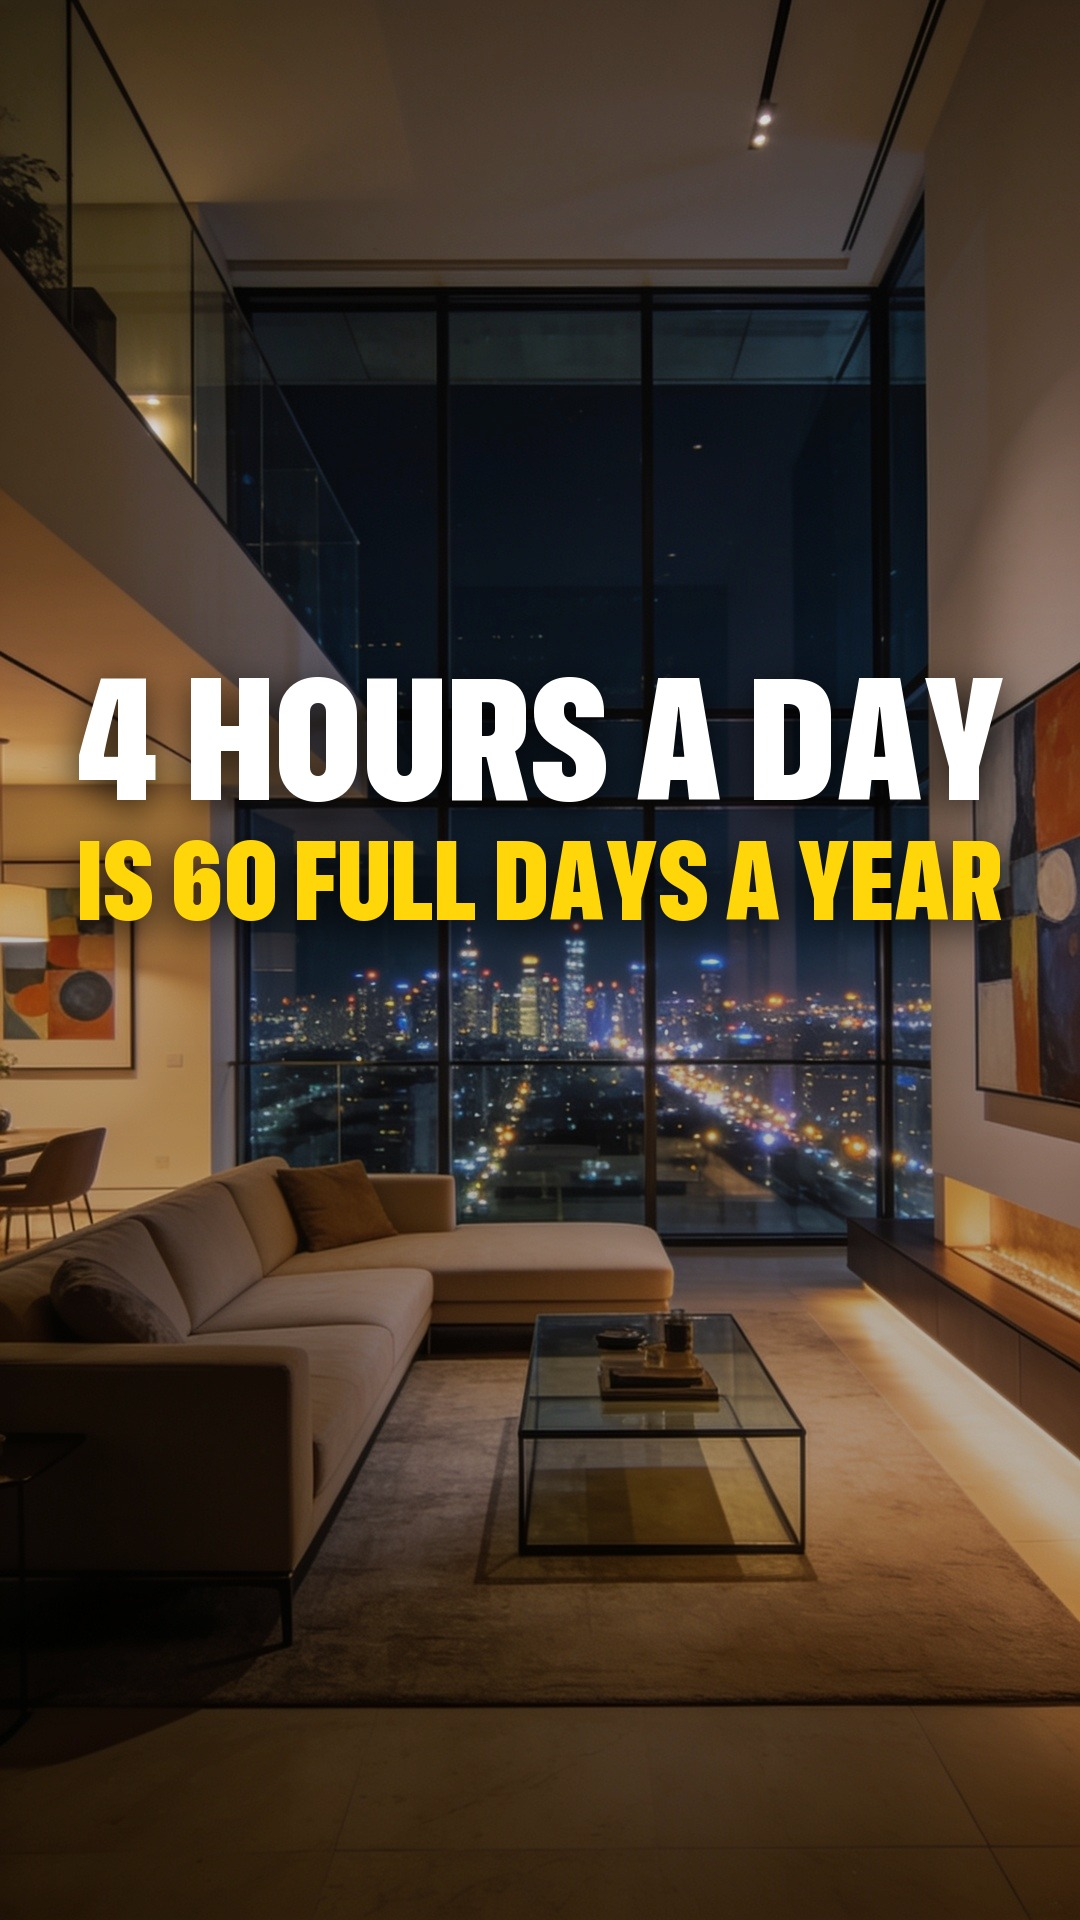
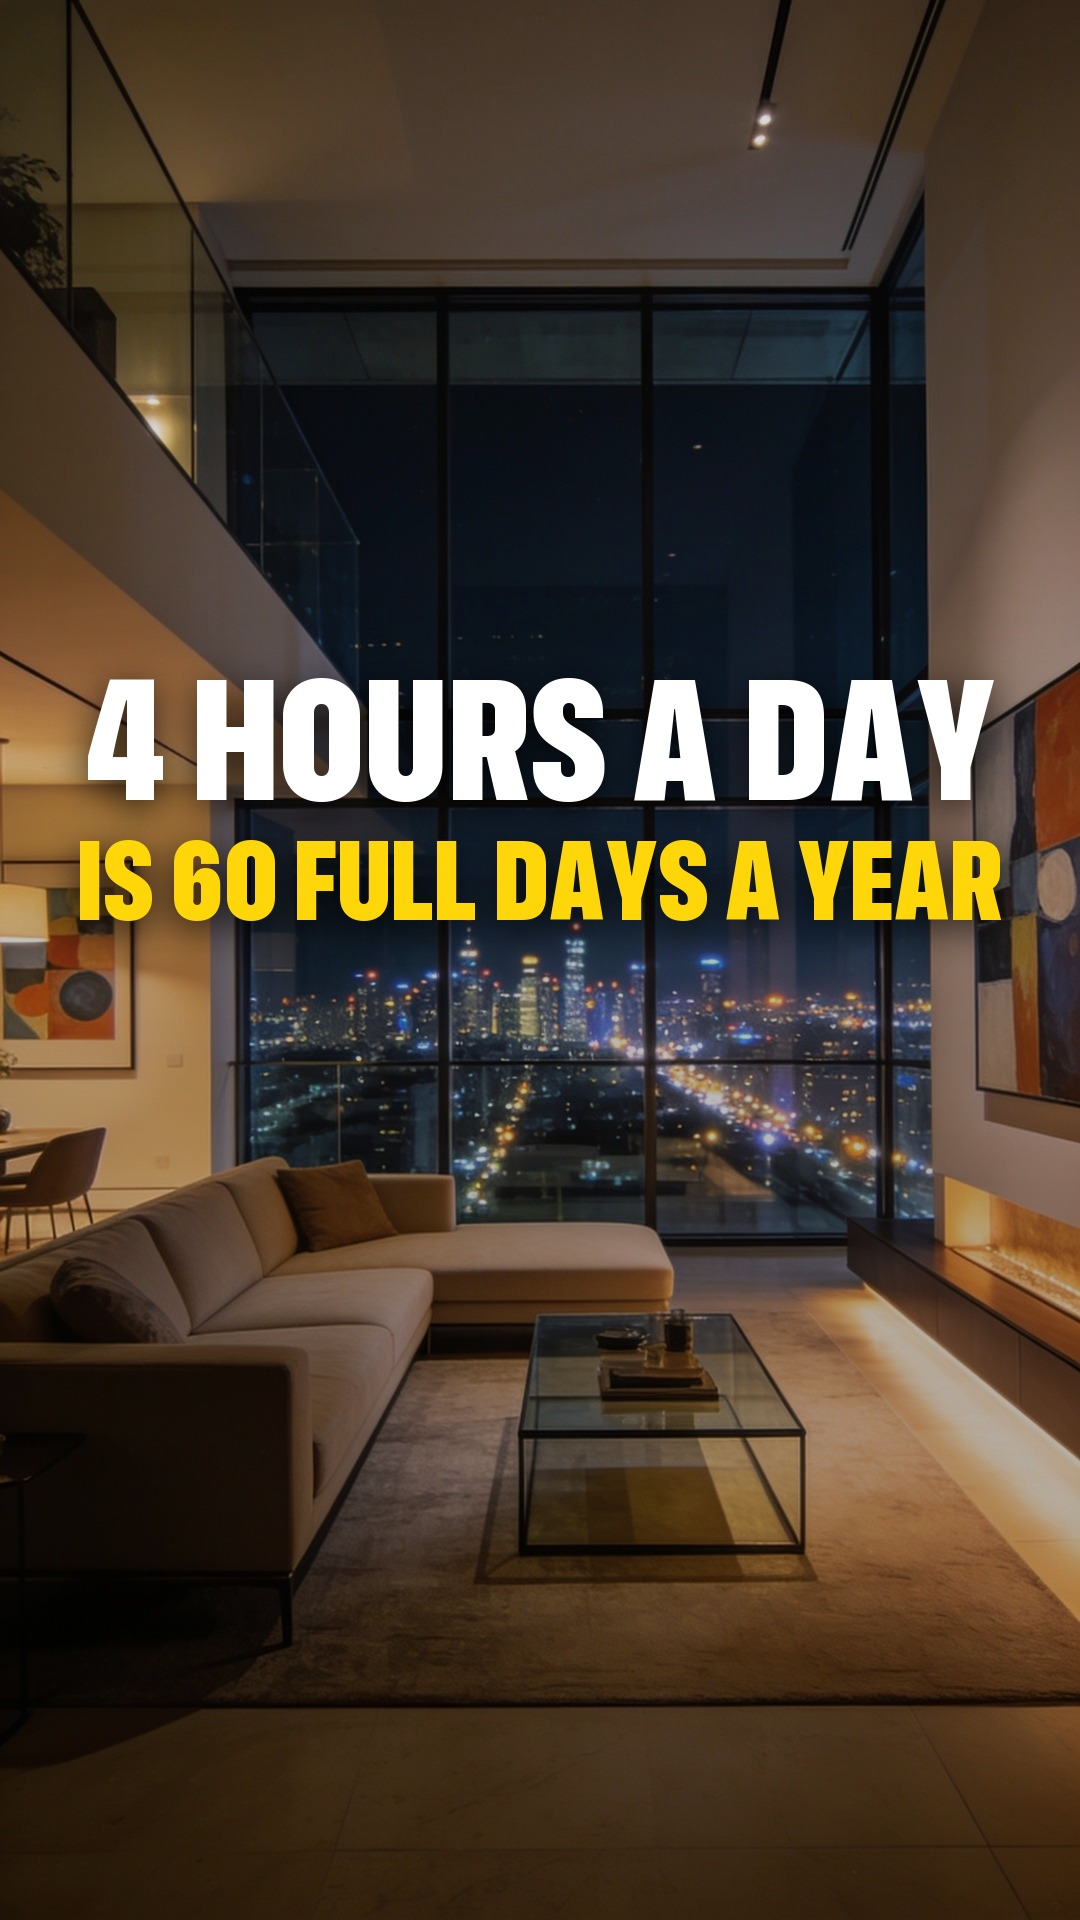
balanced hook sizing; pool adds Wispr Flow + Astro
Claude-Session: https://claude.ai/code/session_018WcmYQJRQqBfrRpJzu76Jc

Changed region(s): [[0.5806, 0.3438, 0.9472, 0.4375], [0.0611, 0.3438, 0.3056, 0.4062]]

diff --git a/tools/compose.py b/tools/compose.py
@@ -197,9 +197,9 @@ def hook_slide(bg, lines, out, grad=(0.85, 0.72, 300, 1300), style=None,
     # Compressed display type, set large: the subject fills the width, the
     # qualifier is roughly 40% of its height.
     if style == 'stack':
-        fb = _fit(big, 'Compressed Black', 250, max_width=940, floor=100)
+        fb = _fit(big, 'Compressed Black', 175, max_width=940, floor=88)
         sm = small.upper()
-        fs = display_font(max(40, int(fb.size * 0.34)), 'Condensed Bold')
+        fs = display_font(max(40, int(fb.size * 0.62)), 'Condensed Bold')
         probe = ImageDraw.Draw(Image.new('RGB', (1, 1)))
         if probe.textlength(sm, font=fs) > 900:
             # wrap the qualifier at the midpoint word break instead of shrinking
@@ -223,9 +223,9 @@ def hook_slide(bg, lines, out, grad=(0.85, 0.72, 300, 1300), style=None,
             _shadowed(im, (540, 862), sm, fs, WHITE, 'ma')
 
     elif style == 'highlight':
-        fb = _fit(big, 'Compressed Black', 245, max_width=940, floor=96)
-        fs = _fit(small.upper(), 'Compressed Black', int(fb.size * 0.92),
-                  max_width=940, floor=88)
+        fb = _fit(big, 'Compressed Black', 170, max_width=940, floor=86)
+        fs = _fit(small.upper(), 'Compressed Black', int(fb.size * 0.85),
+                  max_width=940, floor=78)
         _shadowed(im, (540, 800), big, fb, WHITE, 'ms')
         _shadowed(im, (540, 812), small.upper(), fs, accent, 'ma')
 
@@ -240,8 +240,8 @@ def hook_slide(bg, lines, out, grad=(0.85, 0.72, 300, 1300), style=None,
         d.text((540, 856 + h / 2), small, font=fs, fill=(10, 10, 10), anchor='mm')
 
     else:  # serif — compressed sans subject over an elegant Didot qualifier
-        fb = _fit(big, 'Compressed Black', 255, max_width=940, floor=102)
-        fs = _fit(small, None, int(fb.size * 0.42), max_width=900,
+        fb = _fit(big, 'Compressed Black', 180, max_width=940, floor=90)
+        fs = _fit(small, None, int(fb.size * 0.62), max_width=900,
                   maker=lambda sz: serif_font(sz))
         _shadowed(im, (540, 815), big, fb, WHITE, 'ms')
         _shadowed(im, (540, 838), small, fs, WHITE, 'ma')
